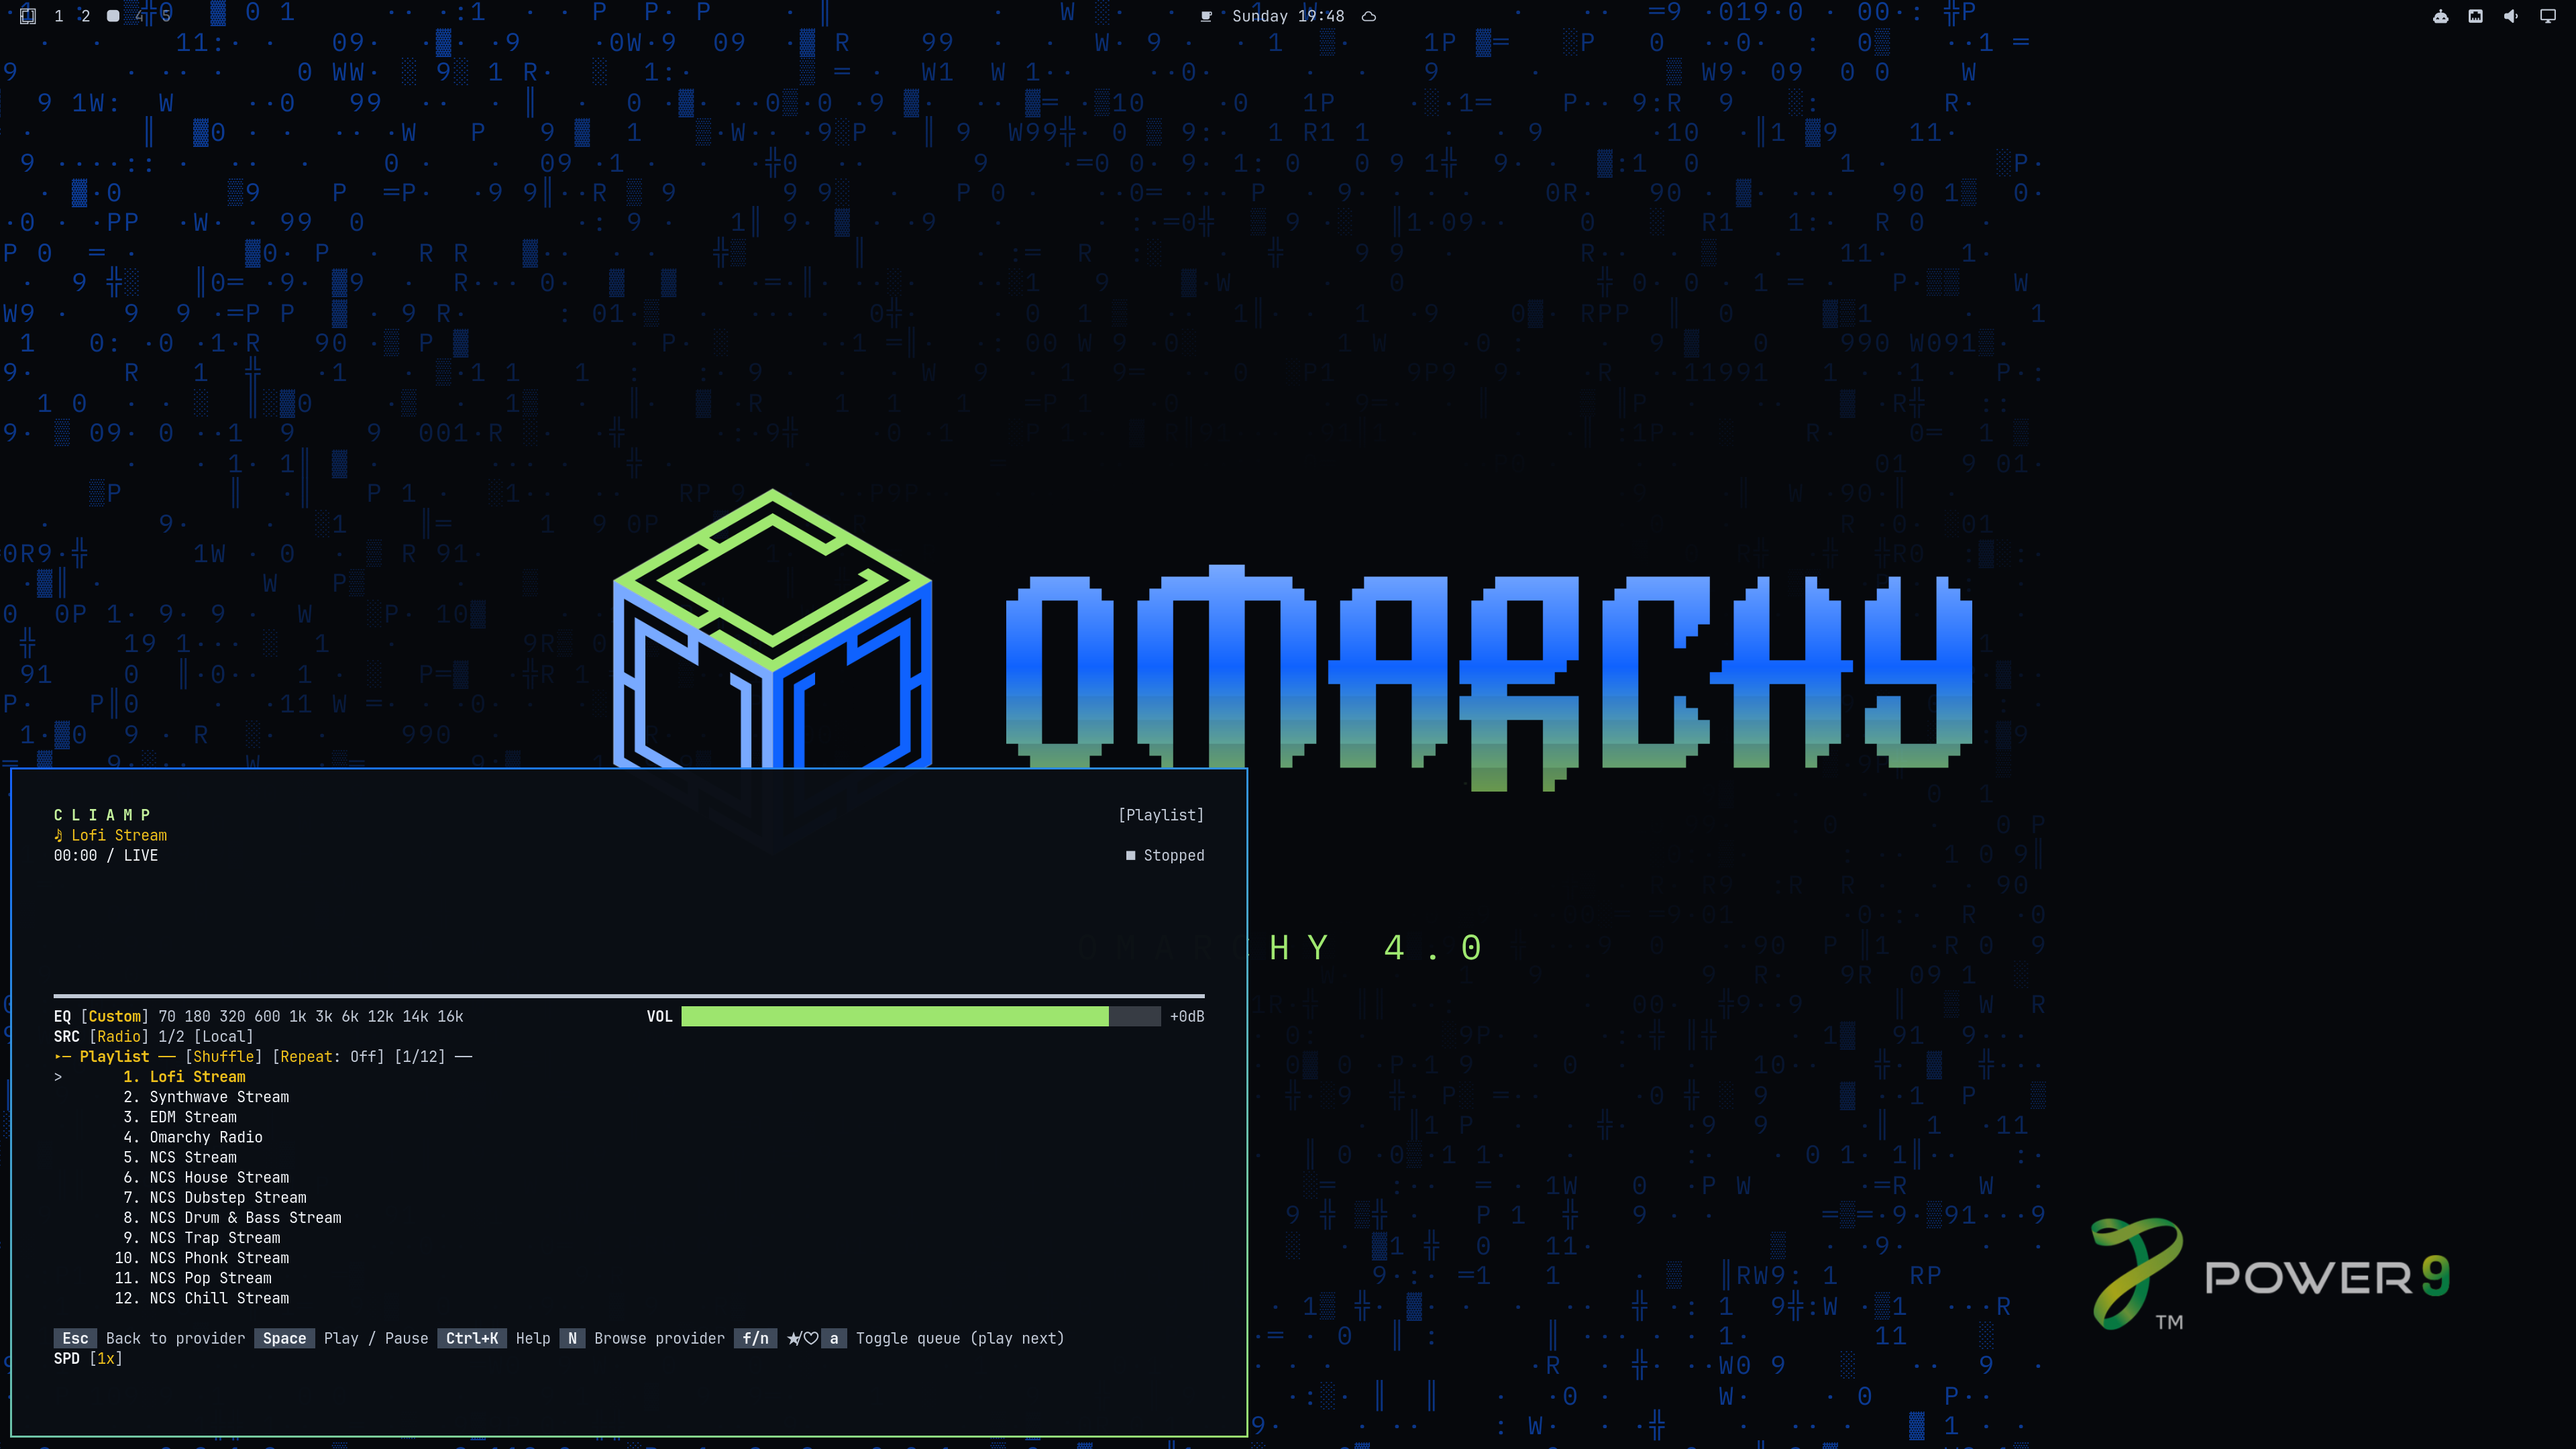
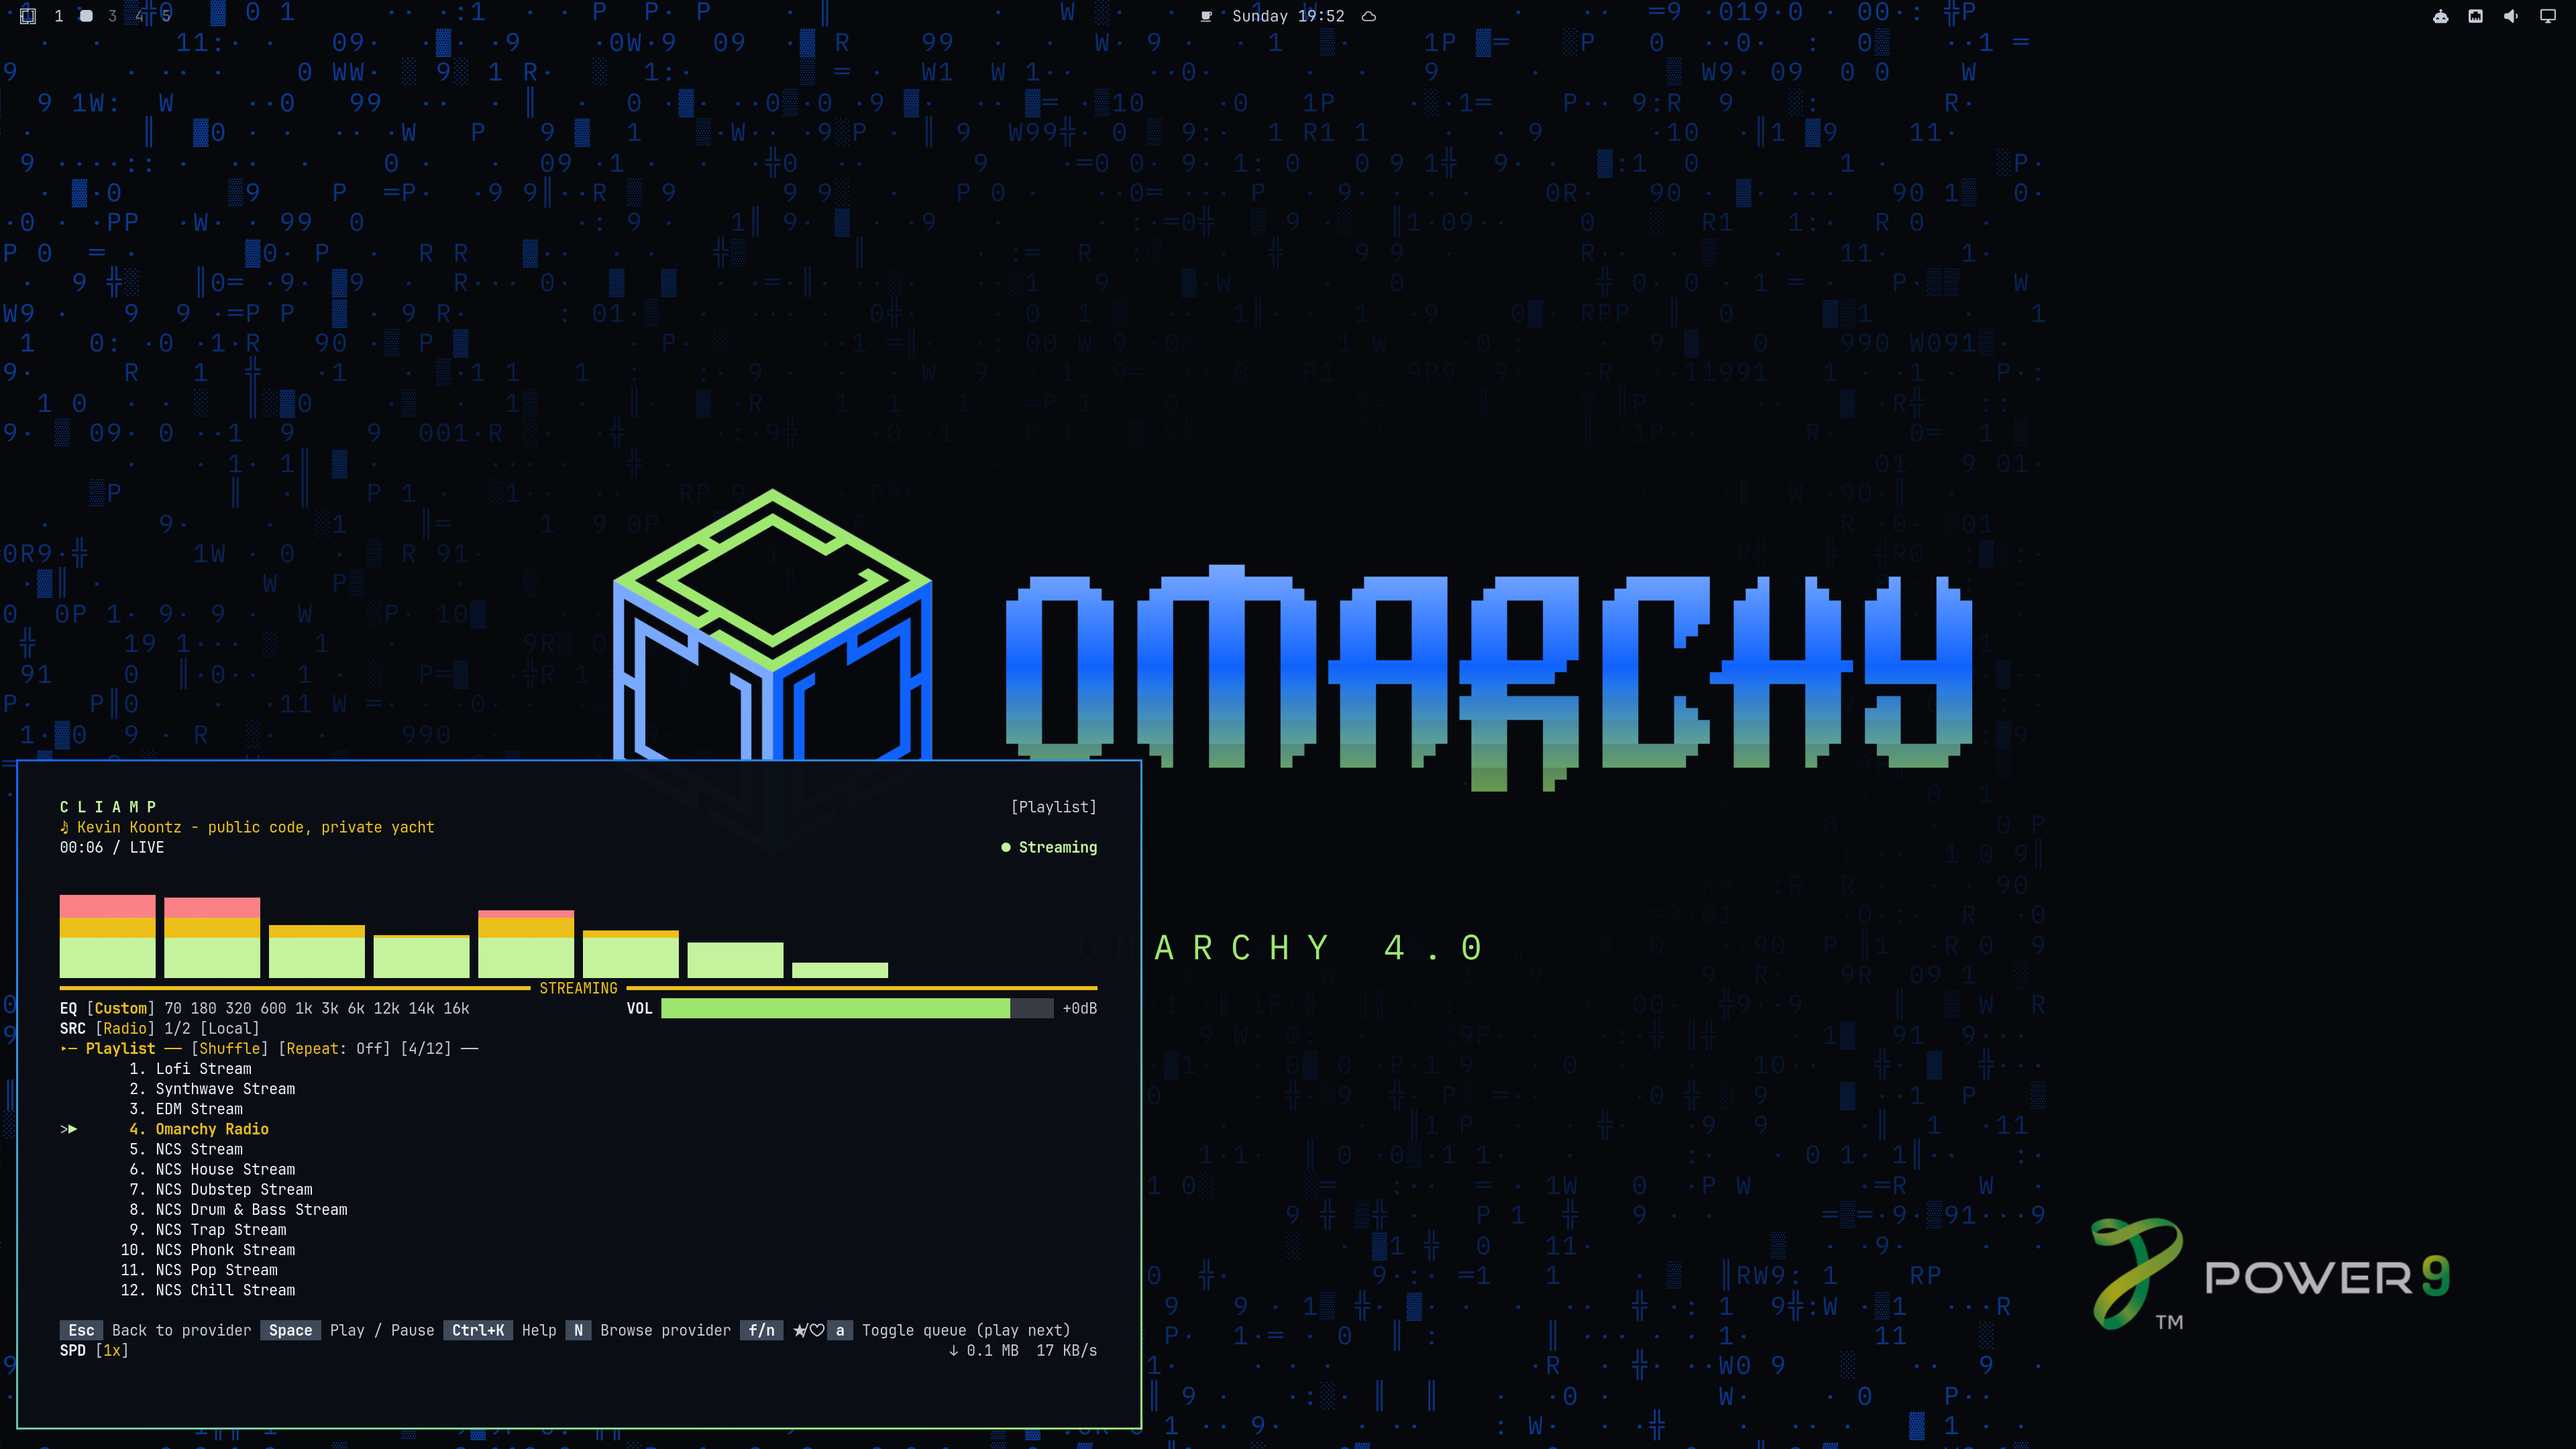
README: cliamp playing Omarchy Radio

diff --git a/README.md b/README.md
@@ -188,4 +188,4 @@ are upstreamable or a local workaround.
 
 Maintained by Jordan Bettcher.
 
-![The power9 theme wallpaper, with cliamp](docs/images/theme-cliamp.png)
+![The power9 theme wallpaper, with cliamp playing Omarchy Radio](docs/images/theme-cliamp.png)
